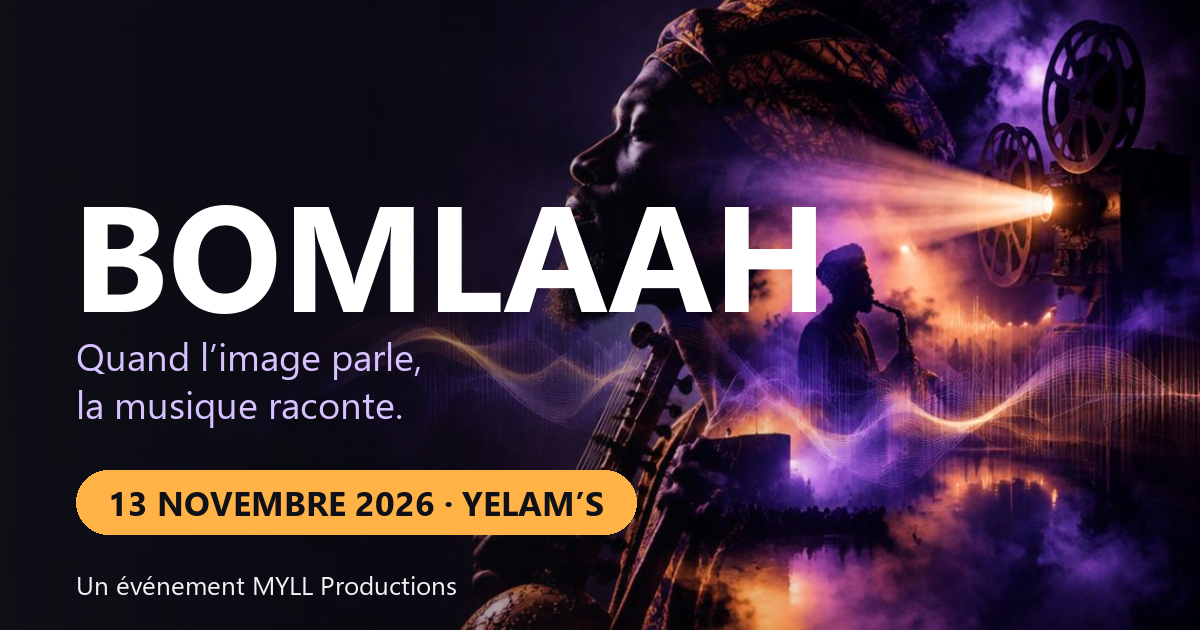
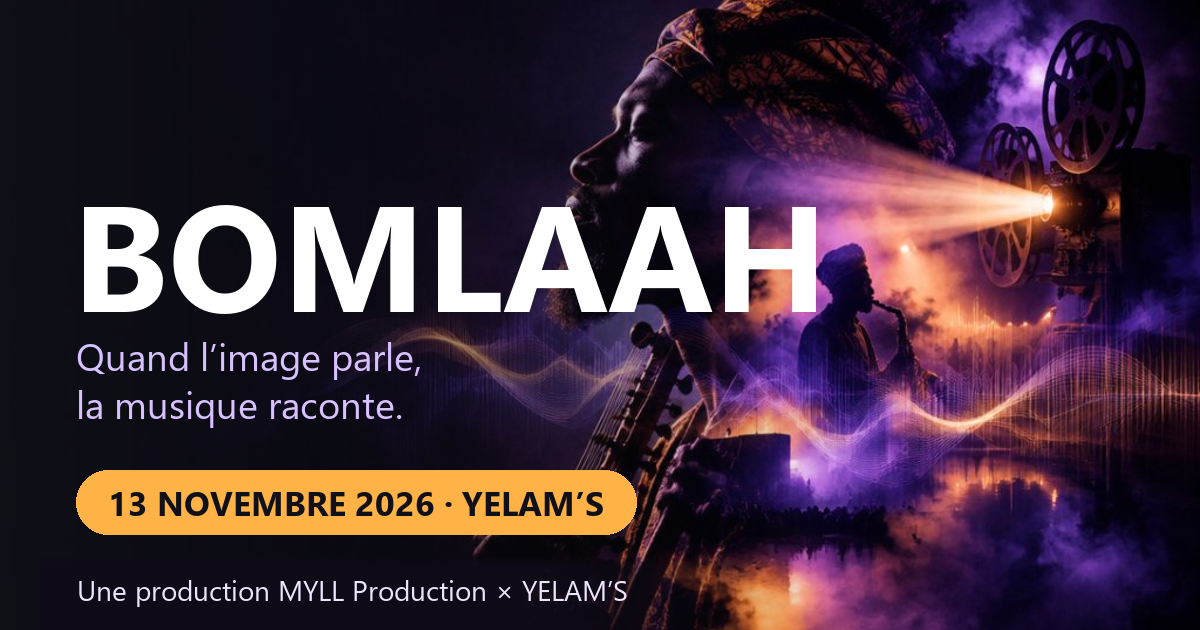
SEO : données structurées, balises robots/hreflang, sitemap, image de partage

Changed region(s): [[0.0617, 0.8746, 0.6167, 1.0]]

diff --git a/index.html b/index.html
@@ -4,19 +4,27 @@
 <meta charset="utf-8">
 <meta name="viewport" content="width=device-width, initial-scale=1">
 <title>BOMLAAH · Quand l’image parle, la musique raconte</title>
-<meta name="description" content="Vendredi 13 novembre 2026, YELAM’S, Treichville (Abidjan) : masterclass le jour, ciné-concert avec 12 musiciens en live le soir. Un événement MYLL Production.">
+<meta name="description" content="BOMLAAH, édition 1 : vendredi 13 novembre 2026 à YELAM’S (Treichville, Abidjan). Masterclass gratuites sur la musique à l’image le jour, ciné-concert avec 12 musiciens en live le soir. Un événement MYLL Production × YELAM’S Créative.">
+<meta name="robots" content="index, follow, max-image-preview:large, max-snippet:-1">
 <link rel="canonical" href="https://bomlaah.com/">
+<link rel="alternate" hreflang="fr" href="https://bomlaah.com/">
+<link rel="alternate" hreflang="x-default" href="https://bomlaah.com/">
+<meta name="keywords" content="BOMLAAH, ciné-concert Abidjan, masterclass musique à l’image, Abidjan 2026, YELAM’S Treichville, MYLL Production, événement culturel Côte d’Ivoire">
+<meta name="author" content="MYLL Production">
 <meta name="theme-color" content="#101018">
 <meta property="og:type" content="website">
 <meta property="og:locale" content="fr_CI">
 <meta property="og:site_name" content="BOMLAAH">
 <meta property="og:url" content="https://bomlaah.com/">
 <meta property="og:title" content="BOMLAAH · Quand l’image parle, la musique raconte">
-<meta property="og:description" content="Vendredi 13 novembre 2026, YELAM’S, Treichville (Abidjan) : masterclass le jour, ciné-concert avec 12 musiciens en live le soir. Un événement MYLL Production.">
+<meta property="og:description" content="BOMLAAH, édition 1 : vendredi 13 novembre 2026 à YELAM’S (Treichville, Abidjan). Masterclass gratuites sur la musique à l’image le jour, ciné-concert avec 12 musiciens en live le soir. Un événement MYLL Production × YELAM’S Créative.">
 <meta property="og:image" content="https://bomlaah.com/og-image.png">
+<meta property="og:image:width" content="1200">
+<meta property="og:image:height" content="630">
+<meta property="og:image:alt" content="BOMLAAH, quand l’image parle, la musique raconte. 13 novembre 2026, YELAM’S, Abidjan.">
 <meta name="twitter:card" content="summary_large_image">
 <meta name="twitter:title" content="BOMLAAH · Quand l’image parle, la musique raconte">
-<meta name="twitter:description" content="Vendredi 13 novembre 2026, YELAM’S, Treichville (Abidjan) : masterclass le jour, ciné-concert avec 12 musiciens en live le soir. Un événement MYLL Production.">
+<meta name="twitter:description" content="BOMLAAH, édition 1 : vendredi 13 novembre 2026 à YELAM’S (Treichville, Abidjan). Masterclass gratuites sur la musique à l’image le jour, ciné-concert avec 12 musiciens en live le soir. Un événement MYLL Production × YELAM’S Créative.">
 <meta name="twitter:image" content="https://bomlaah.com/og-image.png">
 <link rel="icon" href="favicon.ico" sizes="any">
 <link rel="icon" type="image/png" sizes="32x32" href="favicon-32.png">
@@ -28,10 +36,13 @@
 <link href="https://fonts.googleapis.com/css2?family=Montserrat:ital,wght@0,400;0,500;0,600;0,700;0,800;1,400;1,500;1,600;1,700&family=Open+Sans:ital,wght@0,400;0,500;0,600;0,700;1,400&display=swap" rel="stylesheet">
 <link rel="stylesheet" href="assets/site.css">
 <script type="application/ld+json">
-{"@context":"https://schema.org","@type":"WebSite","name":"BOMLAAH","url":"https://bomlaah.com/","inLanguage":"fr"}
+{"@context":"https://schema.org","@type":"WebSite","name":"BOMLAAH","alternateName":"Bomlaah Abidjan","url":"https://bomlaah.com/","inLanguage":"fr"}
 </script>
 <script type="application/ld+json">
-{"@context":"https://schema.org","@type":"Event","name":"BOMLAAH","image":"https://bomlaah.com/og-image.png","url":"https://bomlaah.com/","description":"Événement culturel qui allie formation et spectacle autour du cinéma et de la musique : masterclass le jour, ciné-concert avec 12 musiciens en live le soir.","startDate":"2026-11-13T08:30:00+00:00","eventAttendanceMode":"https://schema.org/OfflineEventAttendanceMode","eventStatus":"https://schema.org/EventScheduled","location":{"@type":"Place","name":"YELAM’S","address":{"@type":"PostalAddress","addressLocality":"Treichville, Abidjan","addressCountry":"CI"}},"organizer":{"@type":"Organization","name":"MYLL Production"},"contributor":{"@type":"Organization","name":"YELAM’S Créative"}}
+{"@context":"https://schema.org","@type":"Event","name":"BOMLAAH","description":"BOMLAAH, édition 1 : vendredi 13 novembre 2026 à YELAM’S (Treichville, Abidjan). Masterclass gratuites sur la musique à l’image le jour, ciné-concert avec 12 musiciens en live le soir. Un événement MYLL Production × YELAM’S Créative.","startDate":"2026-11-13T08:00:00+00:00","endDate":"2026-11-13T22:00:00+00:00","eventStatus":"https://schema.org/EventScheduled","eventAttendanceMode":"https://schema.org/OfflineEventAttendanceMode","isAccessibleForFree":true,"inLanguage":"fr","location":{"@type":"Place","name":"YELAM’S","address":{"@type":"PostalAddress","streetAddress":"Treichville","addressLocality":"Abidjan","addressCountry":"CI"}},"image":["https://bomlaah.com/og-image.png"],"organizer":{"@type":"Organization","name":"MYLL Production","url":"https://bomlaah.com/","logo":"https://bomlaah.com/logos/bomlaah-embleme.png"},"offers":{"@type":"Offer","url":"https://bomlaah.com/","price":"0","priceCurrency":"XOF","availability":"https://schema.org/InStock","validFrom":"2026-10-14T00:00:00+00:00"},"url":"https://bomlaah.com/","subEvent":[{"@type":"Event","name":"BOMLAAH · Masterclass","description":"Cinq masterclass gratuites sur inscription : droits d’auteur et économie des industries culturelles et créatives, métier de compositeur de musique à l’image, opportunités de carrière dans les ICC, binômes réalisateur et compositeur (film d’animation et film de fiction). 12 places par masterclass.","startDate":"2026-11-13T08:00:00+00:00","endDate":"2026-11-13T12:30:00+00:00","eventStatus":"https://schema.org/EventScheduled","eventAttendanceMode":"https://schema.org/OfflineEventAttendanceMode","isAccessibleForFree":true,"inLanguage":"fr","location":{"@type":"Place","name":"YELAM’S","address":{"@type":"PostalAddress","streetAddress":"Treichville","addressLocality":"Abidjan","addressCountry":"CI"}},"image":["https://bomlaah.com/og-image.png"],"organizer":{"@type":"Organization","name":"MYLL Production","url":"https://bomlaah.com/","logo":"https://bomlaah.com/logos/bomlaah-embleme.png"},"offers":{"@type":"Offer","url":"https://bomlaah.com/masterclass/","price":"0","priceCurrency":"XOF","availability":"https://schema.org/InStock","validFrom":"2026-10-14T00:00:00+00:00"},"url":"https://bomlaah.com/masterclass/"},{"@type":"Event","name":"BOMLAAH · Ciné-concert","description":"Deux courts métrages ivoiriens, Kids See Ghosts et Point de non-retour, portés par une partition originale d’Illman Touré jouée en direct par douze musiciens. Entrée gratuite sur réservation.","startDate":"2026-11-13T19:00:00+00:00","endDate":"2026-11-13T22:00:00+00:00","eventStatus":"https://schema.org/EventScheduled","eventAttendanceMode":"https://schema.org/OfflineEventAttendanceMode","isAccessibleForFree":true,"inLanguage":"fr","location":{"@type":"Place","name":"YELAM’S","address":{"@type":"PostalAddress","streetAddress":"Treichville","addressLocality":"Abidjan","addressCountry":"CI"}},"image":["https://bomlaah.com/og-image.png"],"organizer":{"@type":"Organization","name":"MYLL Production","url":"https://bomlaah.com/","logo":"https://bomlaah.com/logos/bomlaah-embleme.png"},"offers":{"@type":"Offer","url":"https://bomlaah.com/cineconcert/","price":"0","priceCurrency":"XOF","availability":"https://schema.org/InStock","validFrom":"2026-10-14T00:00:00+00:00"},"url":"https://bomlaah.com/cineconcert/","doorTime":"2026-11-13T18:00:00+00:00"}],"contributor":{"@type":"Organization","name":"YELAM’S Créative"}}
+</script>
+<script type="application/ld+json">
+{"@context":"https://schema.org","@type":"Organization","name":"MYLL Production","url":"https://bomlaah.com/","logo":"https://bomlaah.com/logos/bomlaah-embleme.png","description":"Entreprise de production phonographique ivoirienne fondée en 2021, productrice de BOMLAAH."}
 </script>
 <noscript><style>#curtain{display:none}.rv{opacity:1;transform:none}.hero h1 .ln>span{transform:none;opacity:1;filter:none}.hero-sub,.hero-bot{opacity:1}.hero-scene .ecran,.hero-scene .orch-h{opacity:1;transform:none}</style></noscript>
 </head>

diff --git a/masterclass/index.html b/masterclass/index.html
@@ -5,6 +5,7 @@
 <meta name="viewport" content="width=device-width, initial-scale=1">
 <title>Masterclass · BOMLAAH</title>
 <meta name="description" content="Cinq masterclass gratuites sur inscription, le 13 novembre 2026 à Abidjan : droits d’auteur, métier de compositeur, carrière, binômes réalisateur et compositeur.">
+<meta name="robots" content="index, follow, max-image-preview:large">
 <link rel="canonical" href="https://bomlaah.com/masterclass/">
 <meta name="theme-color" content="#101018">
 <meta property="og:type" content="website">
@@ -14,6 +15,8 @@
 <meta property="og:title" content="Masterclass BOMLAAH">
 <meta property="og:description" content="Cinq masterclass gratuites sur inscription, le 13 novembre 2026 à Abidjan : droits d’auteur, métier de compositeur, carrière, binômes réalisateur et compositeur.">
 <meta property="og:image" content="https://bomlaah.com/og-image.png">
+<meta property="og:image:width" content="1200">
+<meta property="og:image:height" content="630">
 <meta name="twitter:card" content="summary_large_image">
 <meta name="twitter:title" content="Masterclass BOMLAAH">
 <meta name="twitter:description" content="Cinq masterclass gratuites sur inscription, le 13 novembre 2026 à Abidjan : droits d’auteur, métier de compositeur, carrière, binômes réalisateur et compositeur.">
@@ -28,6 +31,12 @@
 <link href="https://fonts.googleapis.com/css2?family=Montserrat:ital,wght@0,400;0,500;0,600;0,700;0,800;1,400;1,500;1,600;1,700&family=Open+Sans:ital,wght@0,400;0,500;0,600;0,700;1,400&display=swap" rel="stylesheet">
 <link rel="stylesheet" href="../assets/site.css">
 <noscript><style>.rv{opacity:1;transform:none}</style></noscript>
+<script type="application/ld+json">
+{"@context":"https://schema.org","@type":"Event","name":"BOMLAAH · Masterclass","description":"Cinq masterclass gratuites sur inscription : droits d’auteur et économie des industries culturelles et créatives, métier de compositeur de musique à l’image, opportunités de carrière dans les ICC, binômes réalisateur et compositeur (film d’animation et film de fiction). 12 places par masterclass.","startDate":"2026-11-13T08:00:00+00:00","endDate":"2026-11-13T12:30:00+00:00","eventStatus":"https://schema.org/EventScheduled","eventAttendanceMode":"https://schema.org/OfflineEventAttendanceMode","isAccessibleForFree":true,"inLanguage":"fr","location":{"@type":"Place","name":"YELAM’S","address":{"@type":"PostalAddress","streetAddress":"Treichville","addressLocality":"Abidjan","addressCountry":"CI"}},"image":["https://bomlaah.com/og-image.png"],"organizer":{"@type":"Organization","name":"MYLL Production","url":"https://bomlaah.com/","logo":"https://bomlaah.com/logos/bomlaah-embleme.png"},"offers":{"@type":"Offer","url":"https://bomlaah.com/masterclass/","price":"0","priceCurrency":"XOF","availability":"https://schema.org/InStock","validFrom":"2026-10-14T00:00:00+00:00"},"url":"https://bomlaah.com/masterclass/"}
+</script>
+<script type="application/ld+json">
+{"@context":"https://schema.org","@type":"BreadcrumbList","itemListElement":[{"@type":"ListItem","position":1,"name":"BOMLAAH","item":"https://bomlaah.com/"},{"@type":"ListItem","position":2,"name":"Masterclass","item":"https://bomlaah.com/masterclass/"}]}
+</script>
 </head>
 <body>
 <a class="skip" href="#top">Aller au contenu</a>

diff --git a/cineconcert/index.html b/cineconcert/index.html
@@ -5,6 +5,7 @@
 <meta name="viewport" content="width=device-width, initial-scale=1">
 <title>Ciné-concert · BOMLAAH</title>
 <meta name="description" content="Le soir du 13 novembre 2026 à YELAM’S, Treichville : deux courts métrages ivoiriens portés par 12 musiciens en live.">
+<meta name="robots" content="index, follow, max-image-preview:large">
 <link rel="canonical" href="https://bomlaah.com/cineconcert/">
 <meta name="theme-color" content="#101018">
 <meta property="og:type" content="website">
@@ -14,6 +15,8 @@
 <meta property="og:title" content="Ciné-concert BOMLAAH">
 <meta property="og:description" content="Le soir du 13 novembre 2026 à YELAM’S, Treichville : deux courts métrages ivoiriens portés par 12 musiciens en live.">
 <meta property="og:image" content="https://bomlaah.com/og-image.png">
+<meta property="og:image:width" content="1200">
+<meta property="og:image:height" content="630">
 <meta name="twitter:card" content="summary_large_image">
 <meta name="twitter:title" content="Ciné-concert BOMLAAH">
 <meta name="twitter:description" content="Le soir du 13 novembre 2026 à YELAM’S, Treichville : deux courts métrages ivoiriens portés par 12 musiciens en live.">
@@ -28,6 +31,12 @@
 <link href="https://fonts.googleapis.com/css2?family=Montserrat:ital,wght@0,400;0,500;0,600;0,700;0,800;1,400;1,500;1,600;1,700&family=Open+Sans:ital,wght@0,400;0,500;0,600;0,700;1,400&display=swap" rel="stylesheet">
 <link rel="stylesheet" href="../assets/site.css">
 <noscript><style>.rv{opacity:1;transform:none}</style></noscript>
+<script type="application/ld+json">
+{"@context":"https://schema.org","@type":"Event","name":"BOMLAAH · Ciné-concert","description":"Deux courts métrages ivoiriens, Kids See Ghosts et Point de non-retour, portés par une partition originale d’Illman Touré jouée en direct par douze musiciens. Entrée gratuite sur réservation.","startDate":"2026-11-13T19:00:00+00:00","endDate":"2026-11-13T22:00:00+00:00","eventStatus":"https://schema.org/EventScheduled","eventAttendanceMode":"https://schema.org/OfflineEventAttendanceMode","isAccessibleForFree":true,"inLanguage":"fr","location":{"@type":"Place","name":"YELAM’S","address":{"@type":"PostalAddress","streetAddress":"Treichville","addressLocality":"Abidjan","addressCountry":"CI"}},"image":["https://bomlaah.com/og-image.png"],"organizer":{"@type":"Organization","name":"MYLL Production","url":"https://bomlaah.com/","logo":"https://bomlaah.com/logos/bomlaah-embleme.png"},"offers":{"@type":"Offer","url":"https://bomlaah.com/cineconcert/","price":"0","priceCurrency":"XOF","availability":"https://schema.org/InStock","validFrom":"2026-10-14T00:00:00+00:00"},"url":"https://bomlaah.com/cineconcert/","doorTime":"2026-11-13T18:00:00+00:00"}
+</script>
+<script type="application/ld+json">
+{"@context":"https://schema.org","@type":"BreadcrumbList","itemListElement":[{"@type":"ListItem","position":1,"name":"BOMLAAH","item":"https://bomlaah.com/"},{"@type":"ListItem","position":2,"name":"Ciné-concert","item":"https://bomlaah.com/cineconcert/"}]}
+</script>
 </head>
 <body>
 <a class="skip" href="#top">Aller au contenu</a>
